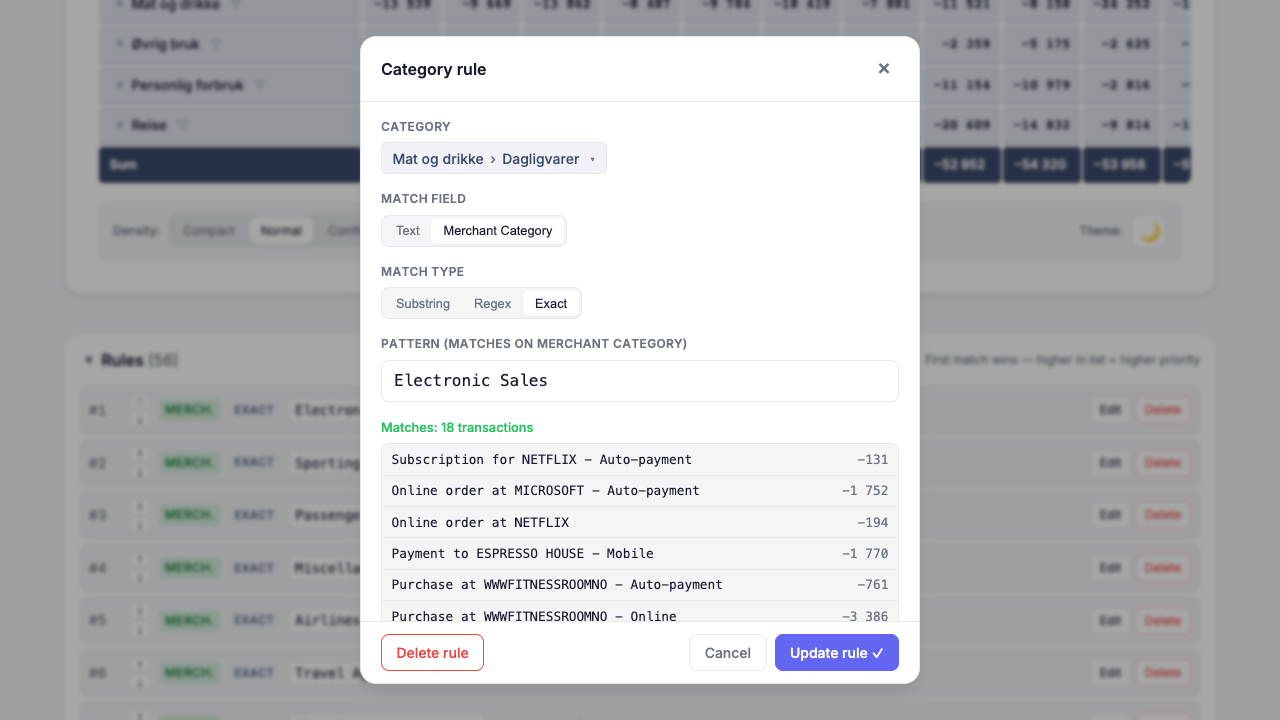
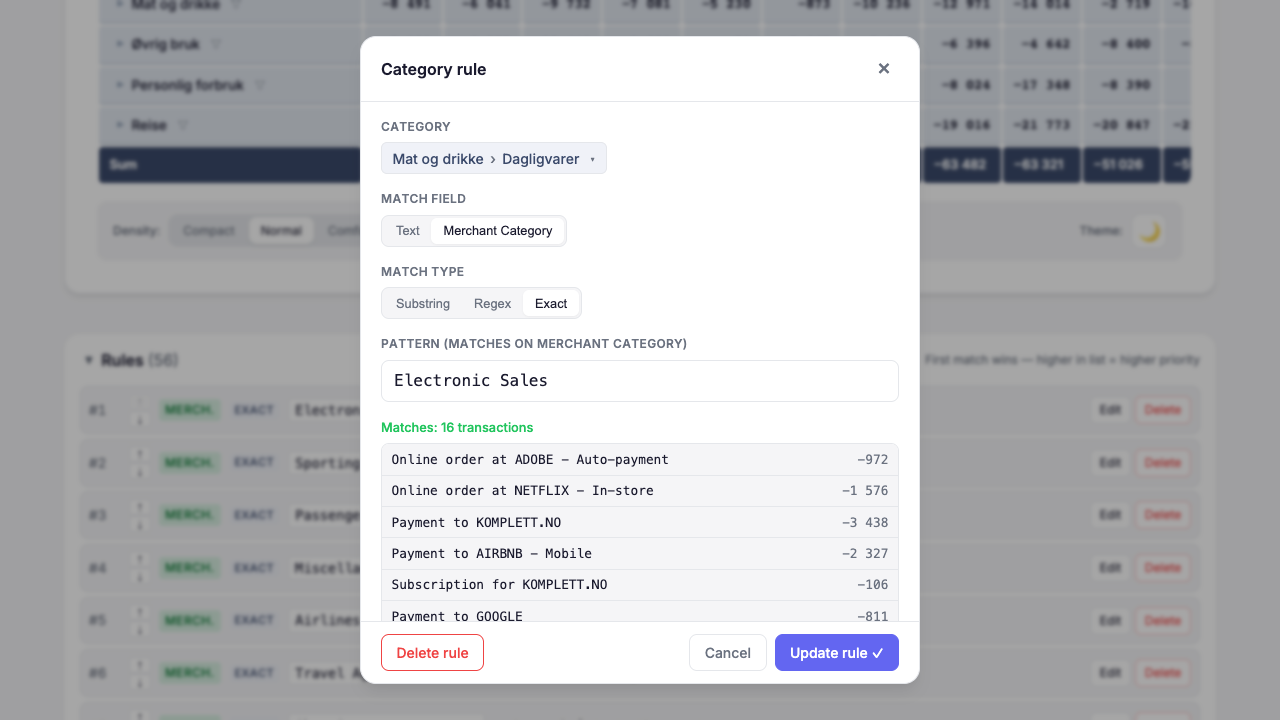
fix: portal rule-dialog category picker so it anchors to the badge
`.rule-dialog` uses `transform: translate(-50%, -50%)` to center
itself, which makes it the containing block for any descendant
`position: fixed` element. Rendering the CategoryDropdown inside the
modal therefore caused its viewport-derived top/left to be interpreted
relative to the modal, placing the picker off to the right of the
badge instead of below it. Portal the picker to document.body so it
positions relative to the real viewport.

diff --git a/v2/frontend/src/components/RuleDialog.tsx b/v2/frontend/src/components/RuleDialog.tsx
@@ -1,4 +1,5 @@
 import { useEffect, useMemo, useRef, useState } from 'react';
+import { createPortal } from 'react-dom';
 import { CategoryTree, Rule, RuleField, MatchKind, Transaction } from '../../../shared/types';
 import { getMatchingTransactions, isValidRegex } from '../services/rules';
 import CategoryDropdown from './CategoryDropdown';
@@ -309,7 +310,9 @@ function RuleDialog({
             </button>
           )}
         </footer>
-        {pickerAnchor && (
+      </div>
+      {pickerAnchor &&
+        createPortal(
           <div className="rd-category-picker">
             <CategoryDropdown
               anchor={pickerAnchor}
@@ -321,9 +324,9 @@ function RuleDialog({
               onRemove={() => setPickerAnchor(null)}
               onClose={() => setPickerAnchor(null)}
             />
-          </div>
+          </div>,
+          document.body,
         )}
-      </div>
     </>
   );
 }